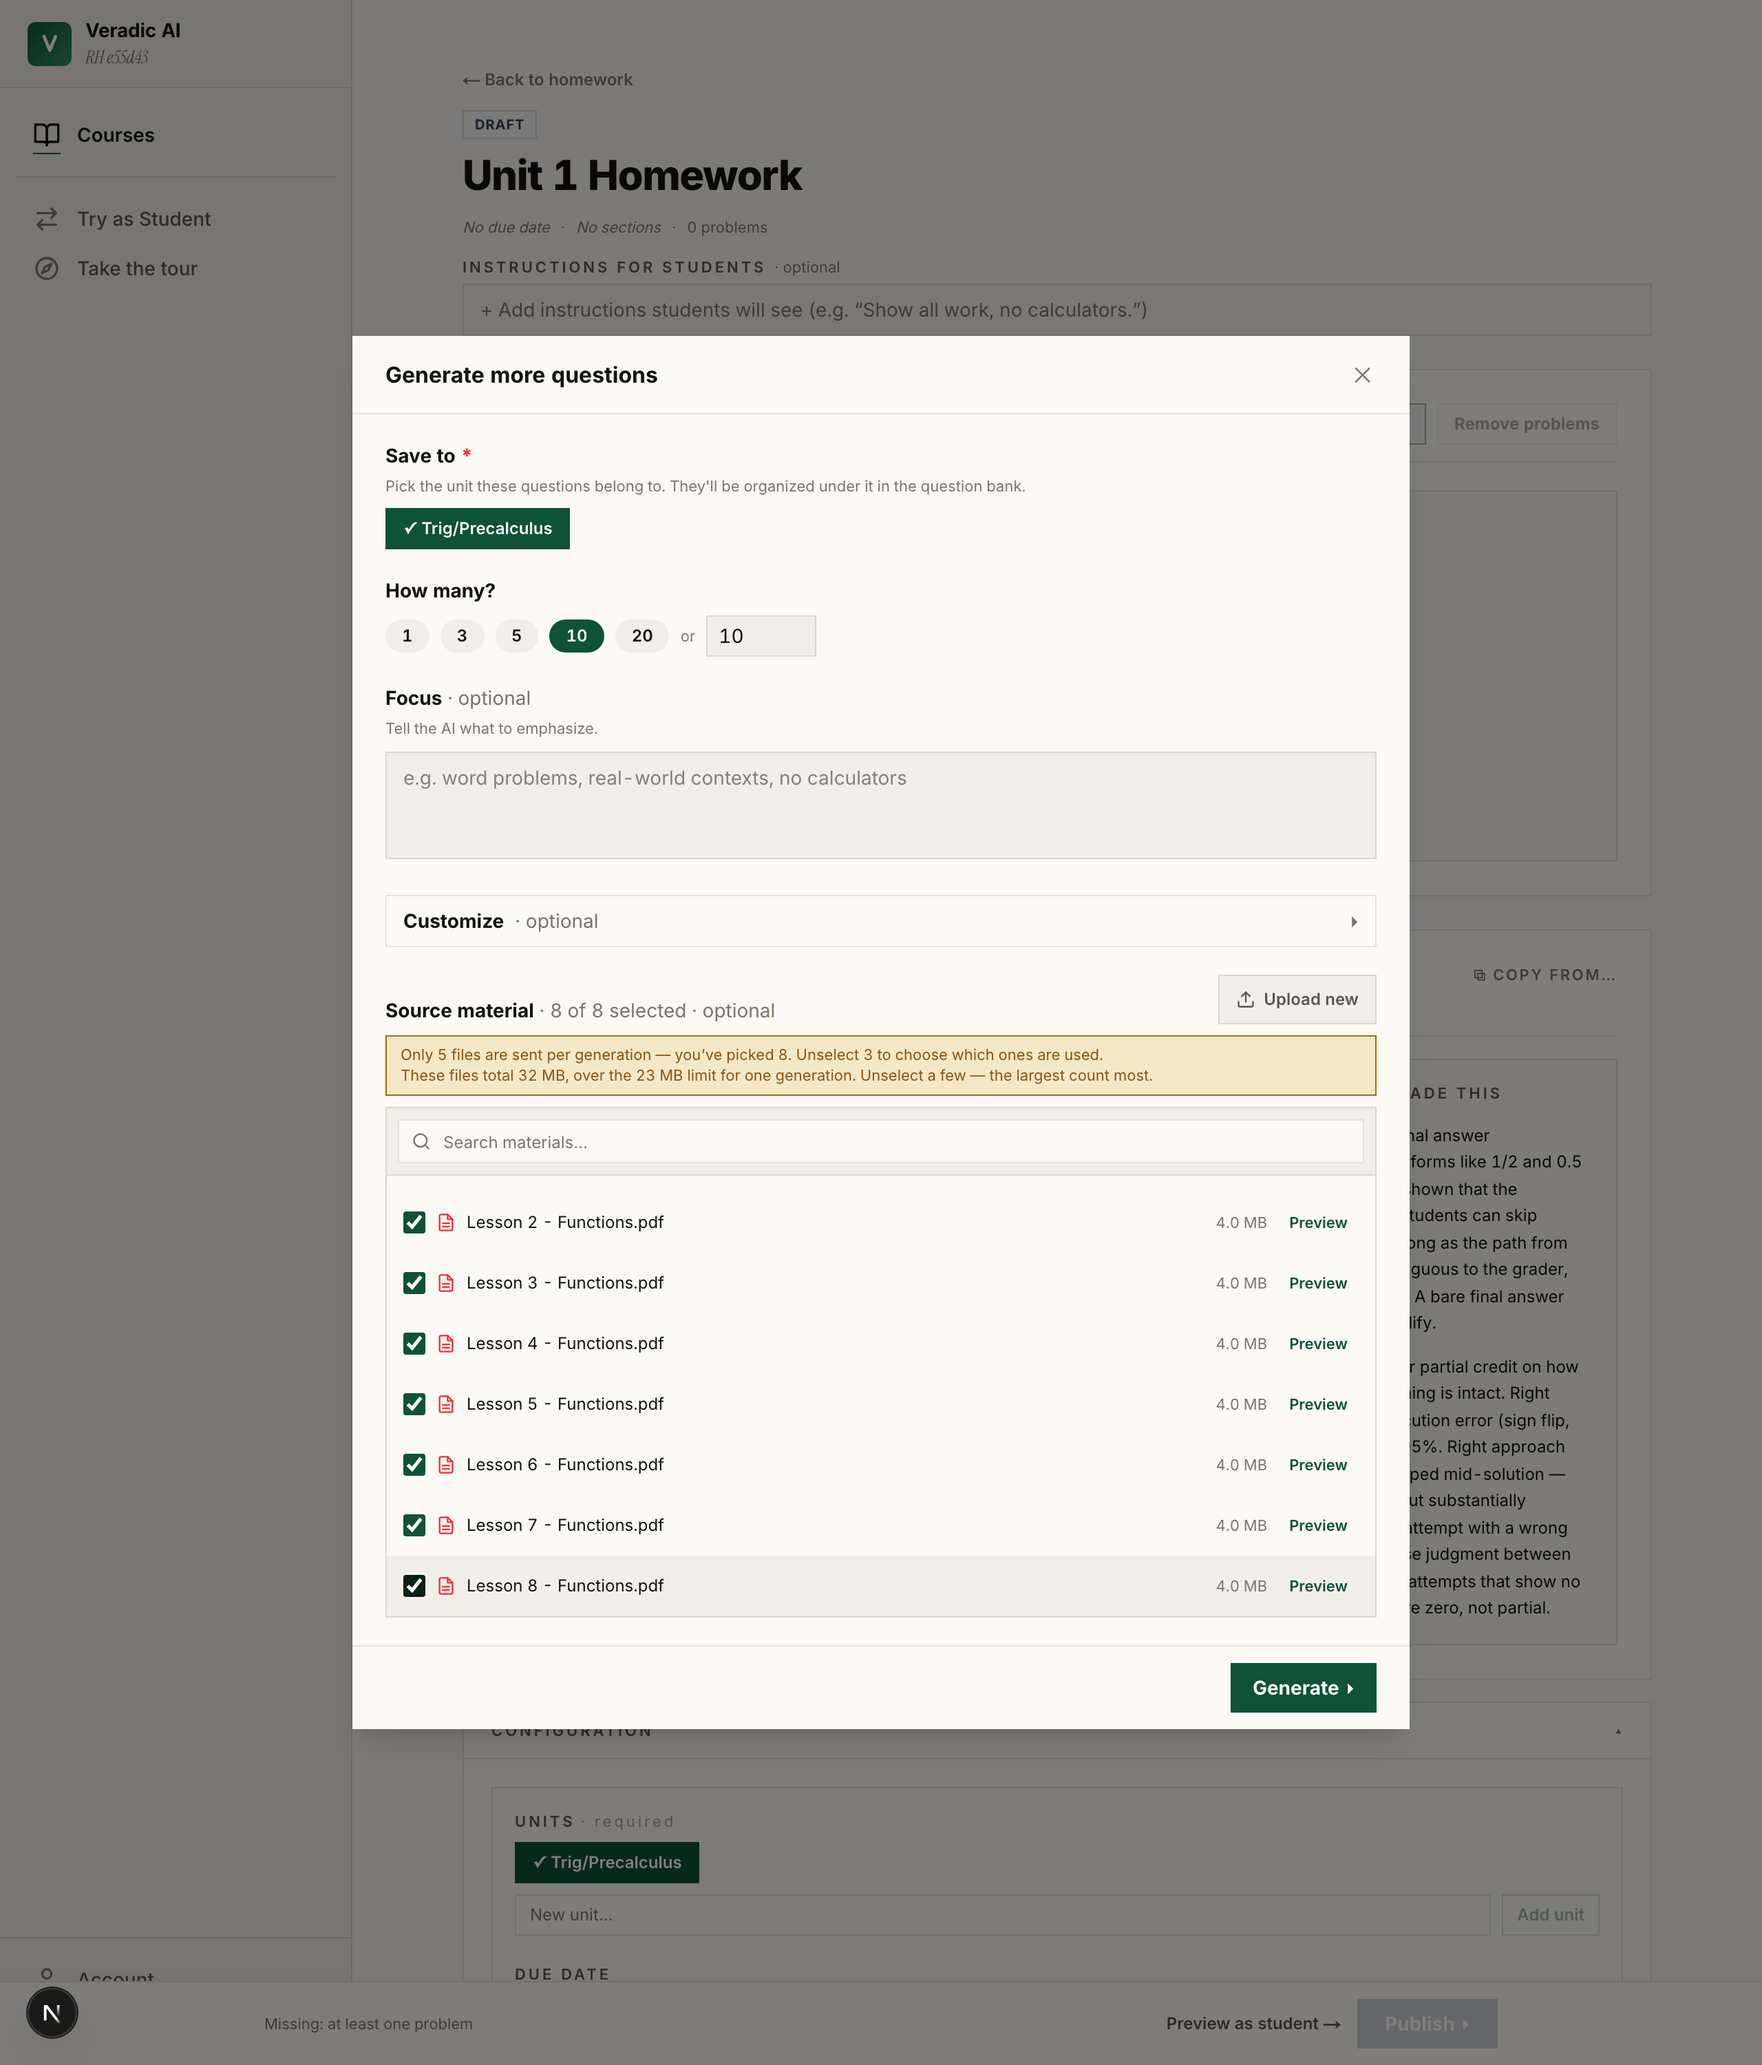
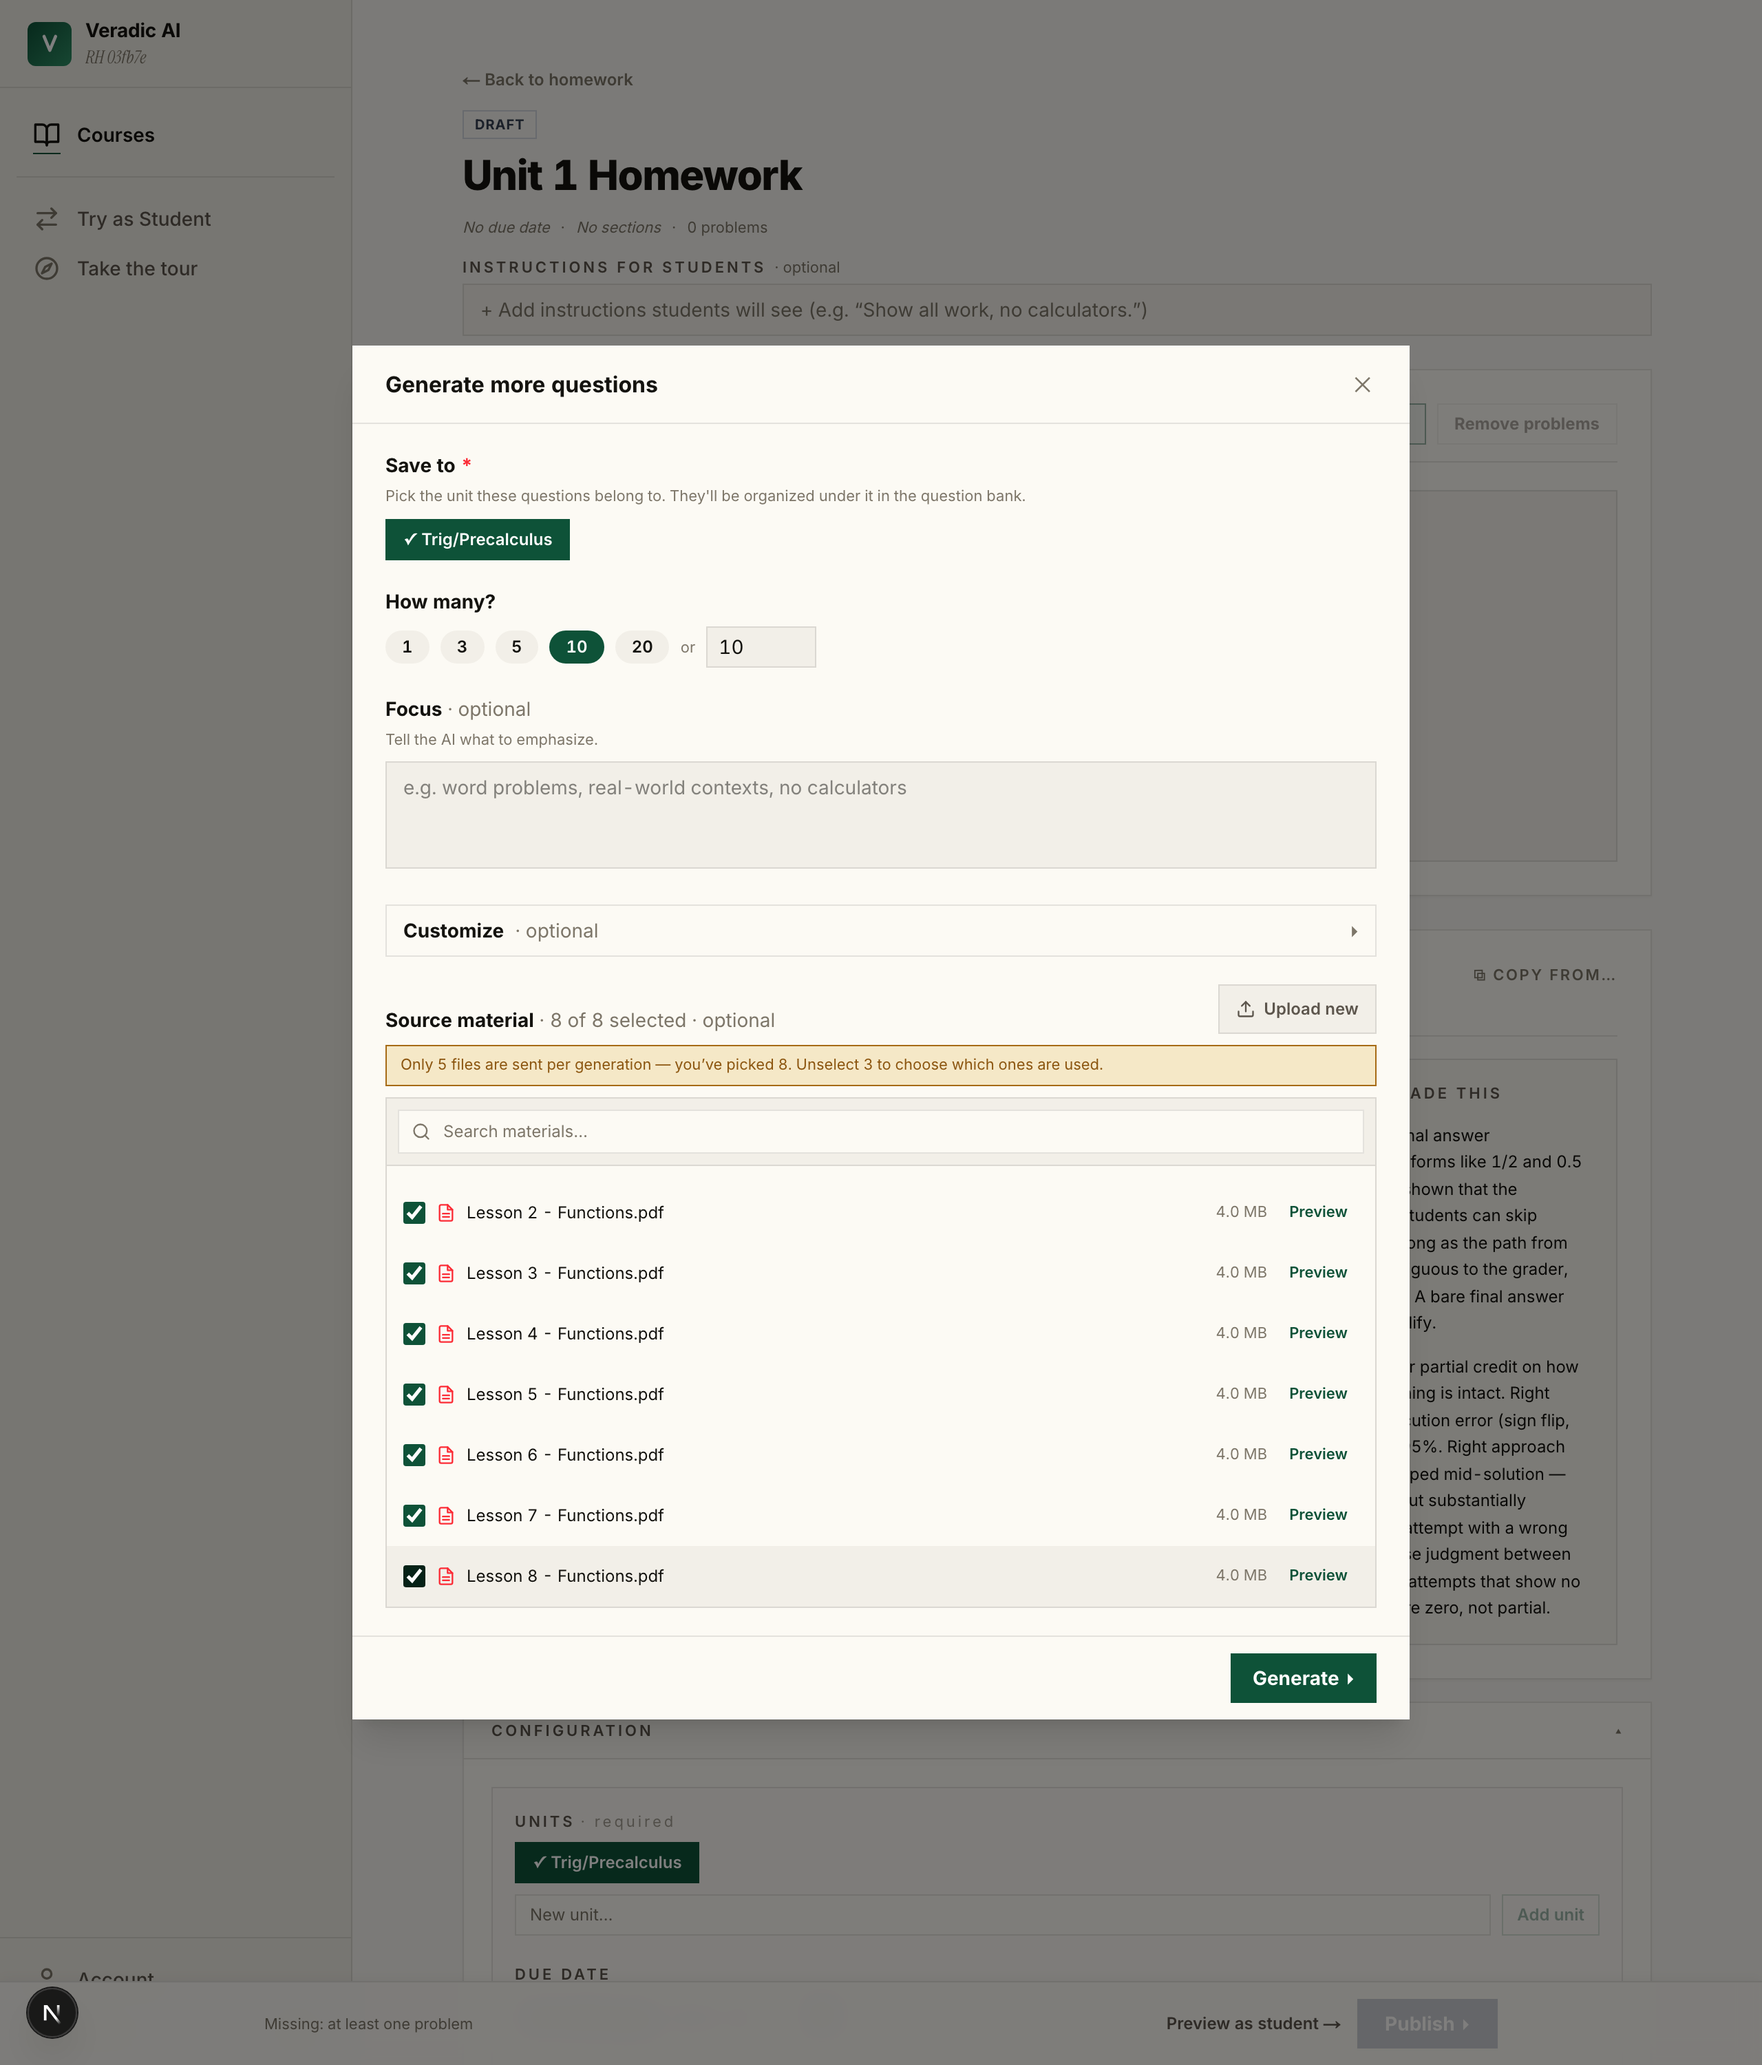
fix: make the source-limit warning match what the backend actually sends
Cold review caught the warning lying in the most common case it fires.

It totalled every selected file and compared that to the byte budget.
The backend doesn't: fetch_source_documents walks the docs oldest-first
and stops once it has MAX_VISION_IMAGES, so files past the fifth are
never weighed for size at all. Eight 4MB PDFs would send the five oldest
(26.7MB base64, comfortably under the 31MB budget) and drop three for
count — nothing for size — while the picker announced "32 MB, over the
23 MB limit". Wrong, and wrong in the direction that makes a teacher
unselect files she didn't need to.

Mirror the backend's actual walk instead of summing the selection, and
say only what's true of the resulting plan.

Two more from the same review:

- Comparing rounded totals could render "total 23 MB, over the 23 MB
  limit" — formatFileSize drops the decimals above 10MB, so any
  selection in a ~256KB window read as self-contradictory. The message
  no longer compares two rounded numbers.
- "Unselect a few — the largest count most" is false advice for a file
  bigger than the whole budget: uploads accept 25MB, which encodes to
  ~33MB and can never be sent, alone or otherwise. That case now names
  the file and its size and doesn't pretend making room would help.

Claude-Session: https://claude.ai/code/session_01M9o8TwVcKUqCcgyrGpq2nV

diff --git a/web/src/components/school/teacher/_pieces/source-material-picker.tsx b/web/src/components/school/teacher/_pieces/source-material-picker.tsx
@@ -261,17 +261,49 @@ export function SourceMaterialPicker({
   const selectedCount = selectedDocs.size;
   const hasContent = totalDocs > 0 || pending.length > 0;
 
-  // What the generation call can actually carry. Going over either
-  // limit isn't an error — the backend just sends fewer documents — but
-  // it used to happen in silence, so the teacher's homework quietly
-  // missed the material she thought she'd attached. Say it here, while
-  // she can still change the selection.
-  const selectedBytes = docs.reduce(
-    (sum, d) => (selectedDocs.has(d.id) ? sum + (d.file_size ?? 0) : sum),
-    0,
+  // What the generation call will actually carry. Going over a limit
+  // isn't an error — the backend just sends fewer documents — but it
+  // used to happen in silence, so the teacher's homework quietly missed
+  // the material she thought she'd attached. Say it here, while the
+  // selection is still hers to change.
+  //
+  // This mirrors `fetch_source_documents` rather than just totalling the
+  // selection: the backend walks the docs oldest-first, skips any that
+  // would bust the byte budget, and stops once it has
+  // GENERATION_MAX_SOURCE_DOCS. Summing everything instead would claim
+  // "over the size limit" for eight small files whose first five fit
+  // fine — a warning that lies is worse than no warning.
+  const sendPlan = useMemo(() => {
+    const selected = docs
+      .filter((d) => selectedDocs.has(d.id))
+      .sort((a, b) => a.created_at.localeCompare(b.created_at));
+    const skippedForSize: TeacherDocument[] = [];
+    let sentCount = 0;
+    let bytes = 0;
+    for (const doc of selected) {
+      if (sentCount >= GENERATION_MAX_SOURCE_DOCS) break;
+      const size = doc.file_size ?? 0;
+      if (bytes + size > GENERATION_MAX_SOURCE_BYTES) {
+        skippedForSize.push(doc);
+        continue;
+      }
+      bytes += size;
+      sentCount += 1;
+    }
+    return { total: selected.length, sentCount, skippedForSize };
+  }, [docs, selectedDocs]);
+
+  const overDocLimit = sendPlan.total > GENERATION_MAX_SOURCE_DOCS;
+  const skipped = sendPlan.skippedForSize;
+  // A file bigger than the whole budget can never be sent, with or
+  // without company — "unselect a few to make room" would be false
+  // advice, so it gets its own sentence.
+  const unsendable = skipped.filter(
+    (d) => (d.file_size ?? 0) > GENERATION_MAX_SOURCE_BYTES,
   );
-  const overDocLimit = selectedCount > GENERATION_MAX_SOURCE_DOCS;
-  const overSizeLimit = selectedBytes > GENERATION_MAX_SOURCE_BYTES;
+  const crowdedOut = skipped.filter(
+    (d) => (d.file_size ?? 0) <= GENERATION_MAX_SOURCE_BYTES,
+  );
 
   return (
     <div>
@@ -314,20 +346,30 @@ export function SourceMaterialPicker({
         />
       </div>
 
-      {(overDocLimit || overSizeLimit) && (
+      {(overDocLimit || skipped.length > 0) && (
         <p
           role="status"
           className="mt-2 rounded-[--radius-md] border border-[color:var(--color-warning)] bg-[color:var(--color-warning-bg)] px-2.5 py-1.5 text-[11px] leading-snug text-[color:var(--color-warning-dark)]"
         >
           {overDocLimit && (
             <>
-              {`Only ${GENERATION_MAX_SOURCE_DOCS} files are sent per generation — you\u2019ve picked ${selectedCount}. Unselect ${selectedCount - GENERATION_MAX_SOURCE_DOCS} to choose which ones are used.`}
+              {`Only ${GENERATION_MAX_SOURCE_DOCS} files are sent per generation — you\u2019ve picked ${sendPlan.total}. Unselect ${sendPlan.total - GENERATION_MAX_SOURCE_DOCS} to choose which ones are used.`}
             </>
           )}
-          {overDocLimit && overSizeLimit && <br />}
-          {overSizeLimit && (
+          {overDocLimit && skipped.length > 0 && <br />}
+          {unsendable.length > 0 && (
             <>
-              {`These files total ${formatFileSize(selectedBytes)}, over the ${formatFileSize(GENERATION_MAX_SOURCE_BYTES)} limit for one generation. Unselect a few — the largest count most.`}
+              {unsendable.length === 1
+                ? `\u201C${unsendable[0].filename}\u201D (${formatFileSize(unsendable[0].file_size ?? 0)}) is too large to send in a generation, which carries about ${formatFileSize(GENERATION_MAX_SOURCE_BYTES)} of source material in total.`
+                : `${unsendable.length} of these files are each too large to send in a generation, which carries about ${formatFileSize(GENERATION_MAX_SOURCE_BYTES)} of source material in total.`}
+            </>
+          )}
+          {unsendable.length > 0 && crowdedOut.length > 0 && <br />}
+          {crowdedOut.length > 0 && (
+            <>
+              {crowdedOut.length === 1
+                ? `\u201C${crowdedOut[0].filename}\u201D won\u2019t fit alongside the rest — unselect something else to make room for it.`
+                : `${crowdedOut.length} files won\u2019t fit alongside the rest — unselect something else to make room for them.`}
             </>
           )}
         </p>
